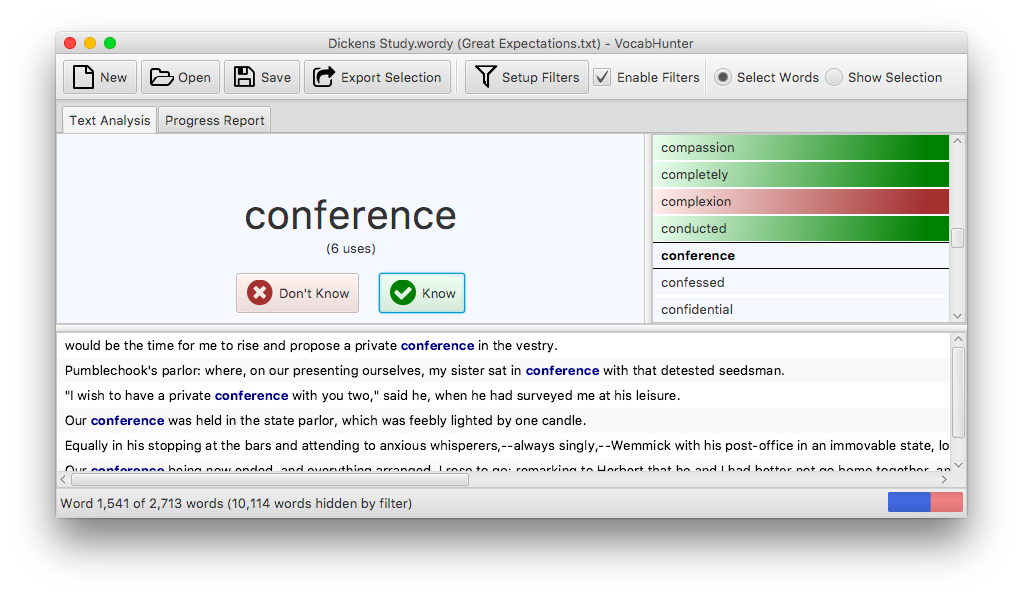
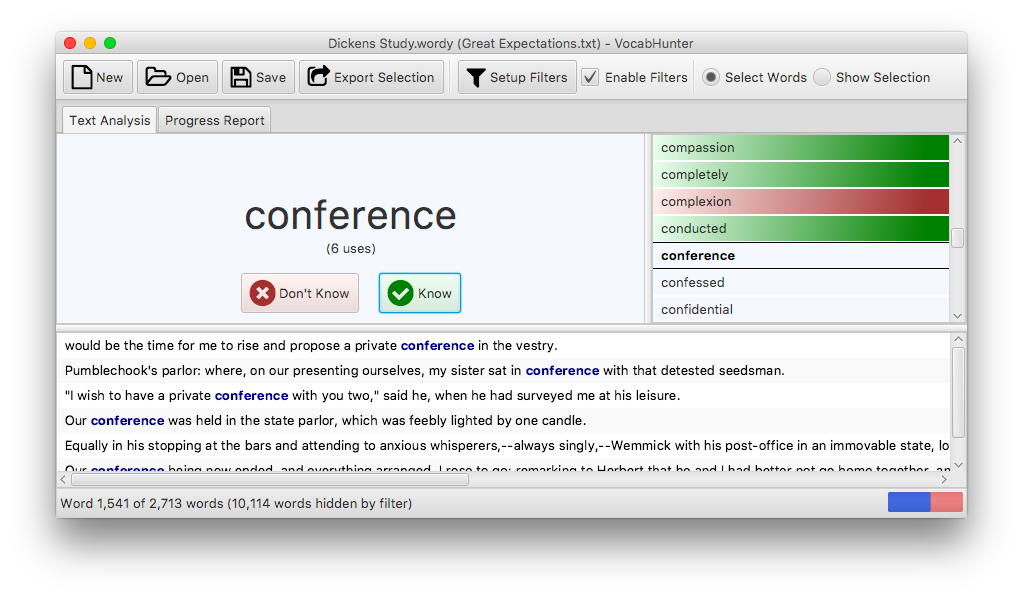
Updated to release 1.0.18

Changed region(s): [[0.0606, 0.0903, 0.9394, 0.1505], [0.3636, 0.4515, 0.4545, 0.5117], [0.2121, 0.4515, 0.2727, 0.5117]]

diff --git a/_posts/2016-11-02-VocabHunter-v1.0.18-Released.md b/_posts/2016-11-02-VocabHunter-v1.0.18-Released.md
@@ -1,0 +1,44 @@
+---
+layout: post
+title:  "VocabHunter v1.0.18 Released"
+date:   2016-11-02
+image: /assets/VocabHunter-Release-v1.0.18.png
+author: Adam Carroll
+description: VocabHunter v1.0.18 is now available for free download for Mac, Windows and Linux
+excerpt: v1.0.18 of VocabHunter is now available for download for Mac, Windows and Linux.  Read all about it here.
+---
+# New Release
+![VocabHunter v1.0.18](/assets/VocabHunter-Release-v1.0.18.png)
+
+VocabHunter v1.0.18 is now available.  Get your copy from the [download](/download) page.  The main changes in this release are:
+
+* The icons used throughout the user interface are now generated using [FontAwesomeFX] rather than being static images.  This results in a very subtle improvement in the current look and feel of the program but more importantly makes it easier to implement future improvements.  You can see the icons in use here:
+
+![FontAwesomeFX Icons](/assets/VocabHunter-FontAwesomeFX-Icons.png)
+
+* A problem with the Linux installer has now been fixed. The problem related to the installer failing to find Java. Thanks to [Danny Althoff] for providing the fix for this. See [issue #6](https://github.com/VocabHunter/VocabHunter/issues/6) for all the details.
+* The Windows installer now lets you choose the install directory rather than forcing the default. Again, thanks to [Danny Althoff] for the tip about fixing this problem.
+* Loading and analysing documents now takes place in a background thread to ensure that the user interface remains responsive throughout the process.  The user also gets more feedback while this is taking place. This helps to ensure that the user feels in control and is aware of what is happening at all times.
+* While files are loading and being analysed and also when sessions are being loaded, saved and exported, the filename is displayed in the status bar.  Again, this helps to keep the user informed about what is going on at all times.
+* The file dialogue for selecting a document to analyse now defaults to offering a much wider range of file formats.  This makes it far more likely that the documents that the user might want to analyse are immediately shown without the need to resort to the "All Files" option.
+* The Dependency Injection used in VocabHunter has been completely overhauled.  [Gluon Ignite] with [Guice] are now used throughout to manage the dependencies.  The use of Dependency Injection has been extended across far more of the system.  This change helps to ensure that the code is cleaner, more testable, well decoupled and ultimately more open and welcoming to contribution by others.
+* As usual, a few software libraries used internally by VocabHunter were updated.
+
+# How JavaFX was used to build a desktop application
+[![How JavaFX was used to build a desktop application](/assets/VocabHunter-JavaFX.png)][KingTechBlog2]
+
+While working on this release, I published this article on the King Tech Blog: [How JavaFX was used to build a desktop application][KingTechBlog2].  The article looks at some of the features of JavaFX used in the VocabHunter user interface and includes examples and links to the relevant code on GitHub.
+
+___
+
+# Related Articles
+* [VocabHunter – A tool for learners of foreign languages][KingTechBlog1] (King Tech Blog)
+* [User Interface Testing with TestFX][TestFX]
+
+[TestFX]:/2016/07/27/TestFX.html
+[KingTechBlog1]:https://techblog.king.com/vocabhunter-a-tool-for-learners-of-foreign-languages/
+[KingTechBlog2]:https://techblog.king.com/javafx-used-build-desktop-application/
+[Danny Althoff]:https://github.com/FibreFoX
+[FontAwesomeFX]:https://bitbucket.org/Jerady/fontawesomefx
+[Gluon Ignite]:http://gluonhq.com/labs/ignite/
+[Guice]:https://github.com/google/guice

diff --git a/download.md b/download.md
@@ -38,7 +38,6 @@ You can install the package as follows:
 
 ~~~
 $ sudo dpkg -i vocabhunter-{{site.release_version}}.deb
-$ sudo sed -i "s|app.runtime=.*|app.runtime=$JAVA_HOME|g" /opt/VocabHunter/app/VocabHunter.cfg
 ~~~
 
 VocabHunter will now run like any other Linux desktop application.
